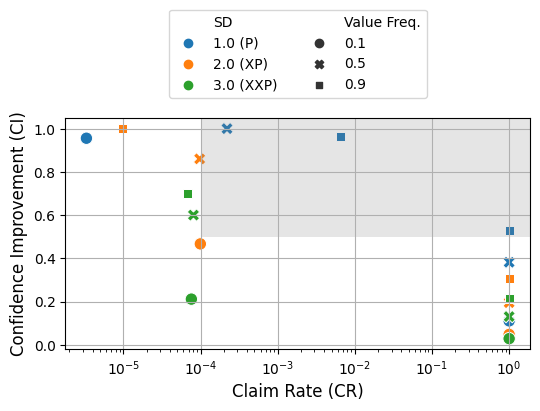
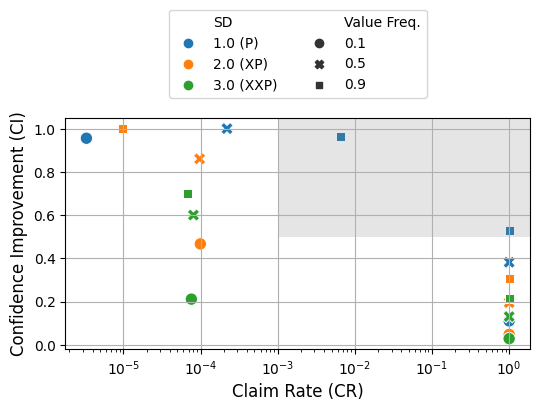
made plots for knowledge based suppress attack

Changed region(s): [[0.3556, 0.292, 0.5333, 0.5839]]

diff --git a/diffixElmPaperAttacks/simpleKnowledgeBasedSuppress/attack.py b/diffixElmPaperAttacks/simpleKnowledgeBasedSuppress/attack.py
@@ -46,9 +46,9 @@ def meanAttack(lowThresh,gap,sdSupp,probHas,
         s.attempt(makesClaim,claimHas,claimCorrect)
         if numTries >= tries and numClaimHas >= atLeast:
             break
-    _,_,_ = s.computeScore()
-    claimRate,confImprove,confidence = s.prettyScore()
-    return claimRate,confImprove,confidence
+    cr,ci,c = s.computeScore()
+    pcr,pci,pc = s.prettyScore()
+    return cr,ci,c,pcr,pci,pc
         
 def lowThreshAttack(lowThresh,gap,sdSupp,probHas,
                 tries=10000,atLeast=100):
@@ -86,9 +86,9 @@ def lowThreshAttack(lowThresh,gap,sdSupp,probHas,
         s.attempt(makesClaim,claimHas,claimCorrect)
         if numTries >= tries and numClaimHas >= atLeast:
             break
-    _,_,_ = s.computeScore()
-    claimRate,confImprove,confidence = s.prettyScore()
-    return claimRate,confImprove,confidence
+    cr,ci,c = s.computeScore()
+    pcr,pci,pc = s.prettyScore()
+    return cr,ci,c,pcr,pci,pc
 
 def dataInit():
     return {'Stat Guess':[],'LMG':[],'SDsp':[],'CR':[],'CI':[]}
@@ -121,9 +121,9 @@ The following results are for:
     for sdlsTup,probHas in [(x,y) for x in sdLs for y in pbs]:
         sdSupp = sdlsTup[0]
         gap = sdlsTup[1]
-        cr,ci,c = meanAttack(lowThresh,gap,sdSupp,probHas,
+        cr,ci,c,pcr,pci,pc = meanAttack(lowThresh,gap,sdSupp,probHas,
                               tries=tries)
-        results.append([probHas,gap,sdSupp,cr,ci,c,])
+        results.append([probHas,gap,sdSupp,pcr,pci,pc,])
         dataUpdate(data,[probHas,gap,sdSupp,cr,ci,c,])
 
     print(tabulate(results,headers,tablefmt='latex_booktabs'))
@@ -141,9 +141,9 @@ The following results are for:
     for sdlsTup,probHas in [(x,y) for x in sdLs for y in pbs]:
         sdSupp = sdlsTup[0]
         gap = sdlsTup[1]
-        cr,ci,c = lowThreshAttack(lowThresh,gap,sdSupp,probHas,
+        cr,ci,c,pcr,pci,pc = lowThreshAttack(lowThresh,gap,sdSupp,probHas,
                               tries=tries)
-        results.append([probHas,gap,sdSupp,cr,ci,c,])
+        results.append([probHas,gap,sdSupp,pcr,pci,pc,])
         dataUpdate(data,[probHas,gap,sdSupp,cr,ci,c,])
 
     print(tabulate(results,headers,tablefmt='latex_booktabs'))

diff --git a/diffixElmPaperAttacks/simpleKnowledgeBasedSuppress/plot.py b/diffixElmPaperAttacks/simpleKnowledgeBasedSuppress/plot.py
@@ -8,15 +8,16 @@ pp = pprint.PrettyPrinter(indent=4)
 
 with open('data.json', 'r') as f:
     data = json.load(f)
-dfInit = pd.DataFrame.from_dict(data)
-df = dfInit.query('SD > 0.5')
+for k,v in data.items():
+    print(k)
+df = pd.DataFrame.from_dict(data)
 df = df.rename(columns={'Stat Guess':'Value Freq.'})
-df['SD'] = df['SD'].replace([1.0,2.0,3.0],['1.0 (P)','2.0 (XP)','3.0 (XXP)'])
-#df['SD'] = df['SD'].astype(str)
+df['SDsp'] = df['SDsp'].replace([1.0,1.5,2.0],['P','XP','XXP'])
+df = df.rename(columns={'Stat Guess':'Value Freq.','SDsp':'Setting'})
 plt.figure(figsize=(6, 3))
-ax = sns.scatterplot(data=df, x="CR", y="CI",style='Value Freq.',hue='SD',s=80)
+ax = sns.scatterplot(data=df, x="CR", y="CI",style='Value Freq.',hue='Setting',s=80)
 ax.set(xscale='log')
-left, bottom, width, height = (0.0001, 0.5, 2, 2)
+left, bottom, width, height = (0.001, 0.5, 2, 2)
 rect=patches.Rectangle((left,bottom),width,height, 
                         alpha=0.2,
                        facecolor="grey")
@@ -25,4 +26,4 @@ plt.ylabel('Confidence Improvement (CI)',fontsize=12)
 ax.legend(loc='upper center', bbox_to_anchor=(0.5, 1.5), ncol=2)
 plt.grid()
 plt.gca().add_patch(rect)
-plt.savefig('sim-know-noise.png',bbox_inches='tight')
+plt.savefig('sim-know-suppress.png',bbox_inches='tight')

diff --git a/diffixElmPaperAttacks/simpleKnowledgeBasedNoise/plot.py b/diffixElmPaperAttacks/simpleKnowledgeBasedNoise/plot.py
@@ -16,7 +16,7 @@ df['SD'] = df['SD'].replace([1.0,2.0,3.0],['1.0 (P)','2.0 (XP)','3.0 (XXP)'])
 plt.figure(figsize=(6, 3))
 ax = sns.scatterplot(data=df, x="CR", y="CI",style='Value Freq.',hue='SD',s=80)
 ax.set(xscale='log')
-left, bottom, width, height = (0.0001, 0.5, 2, 2)
+left, bottom, width, height = (0.001, 0.5, 2, 2)
 rect=patches.Rectangle((left,bottom),width,height, 
                         alpha=0.2,
                        facecolor="grey")
